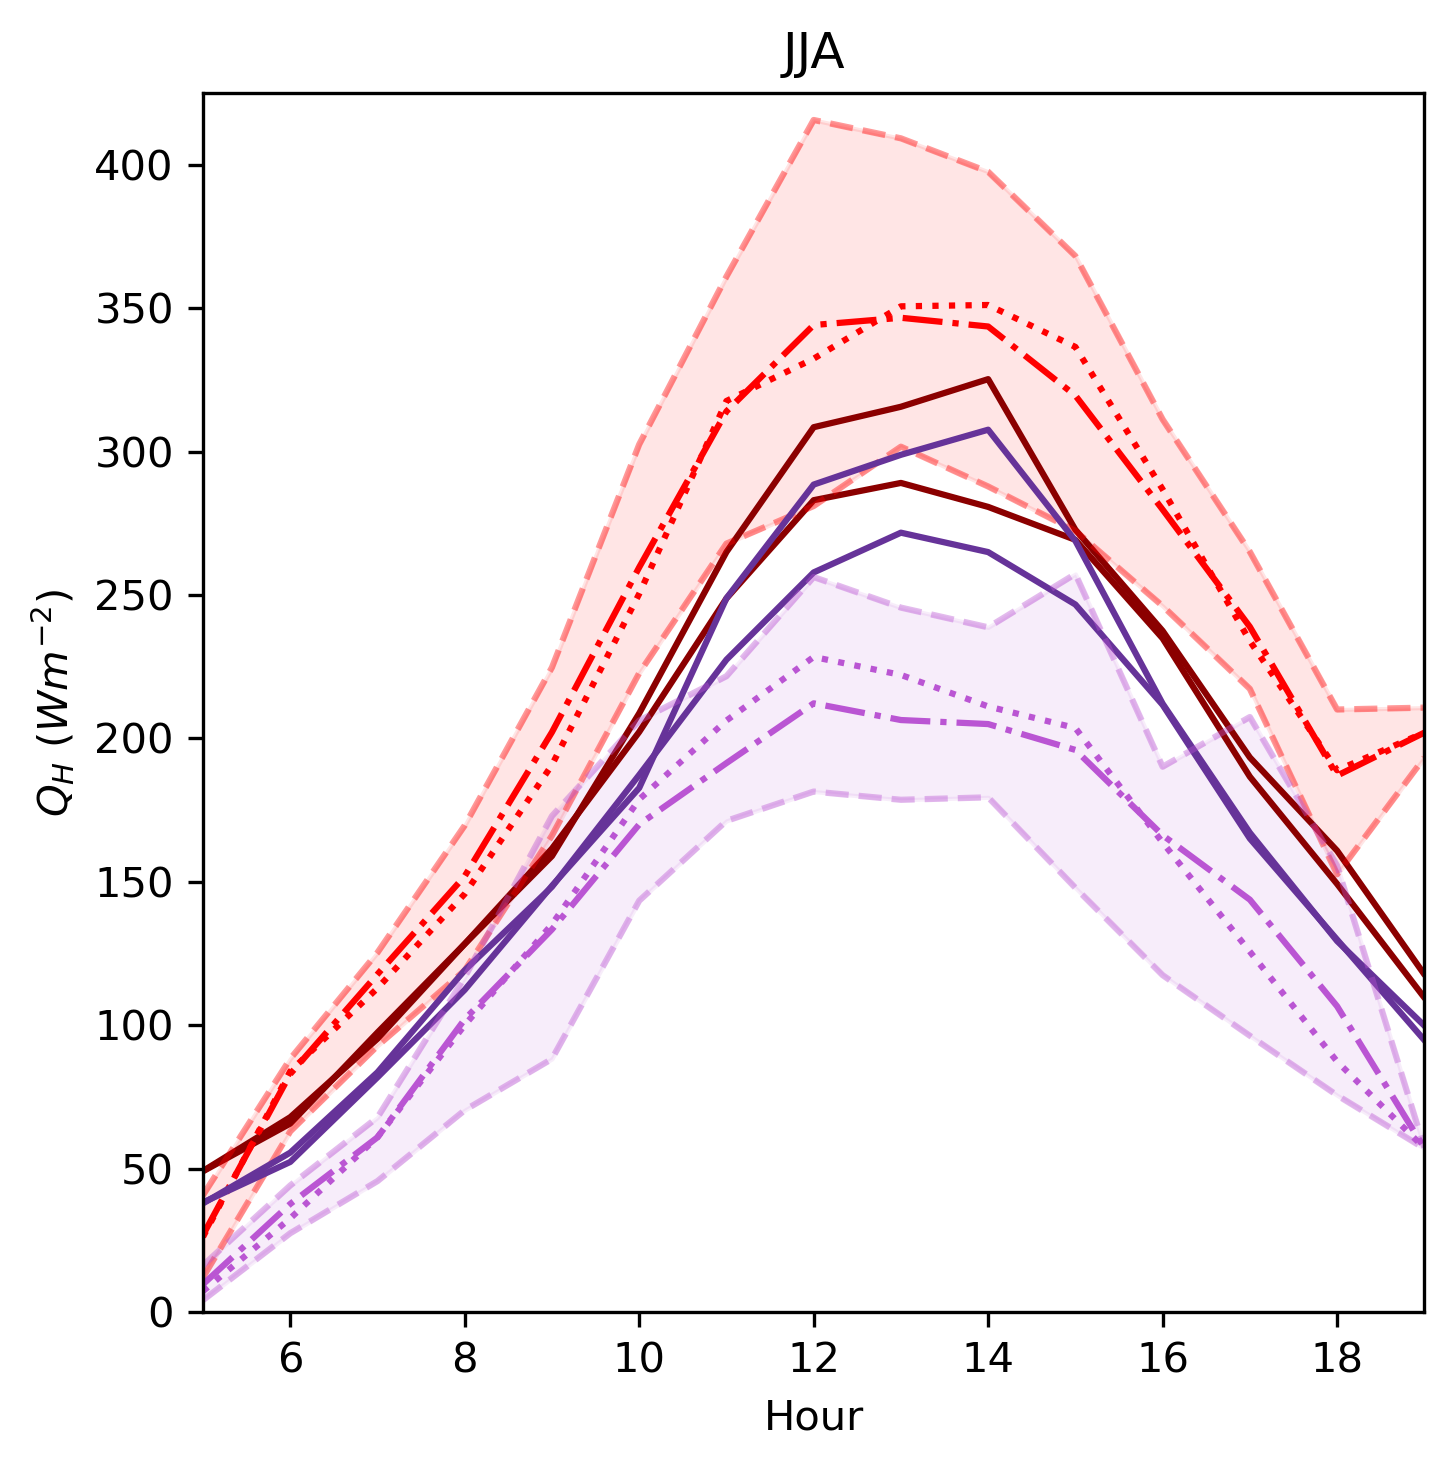
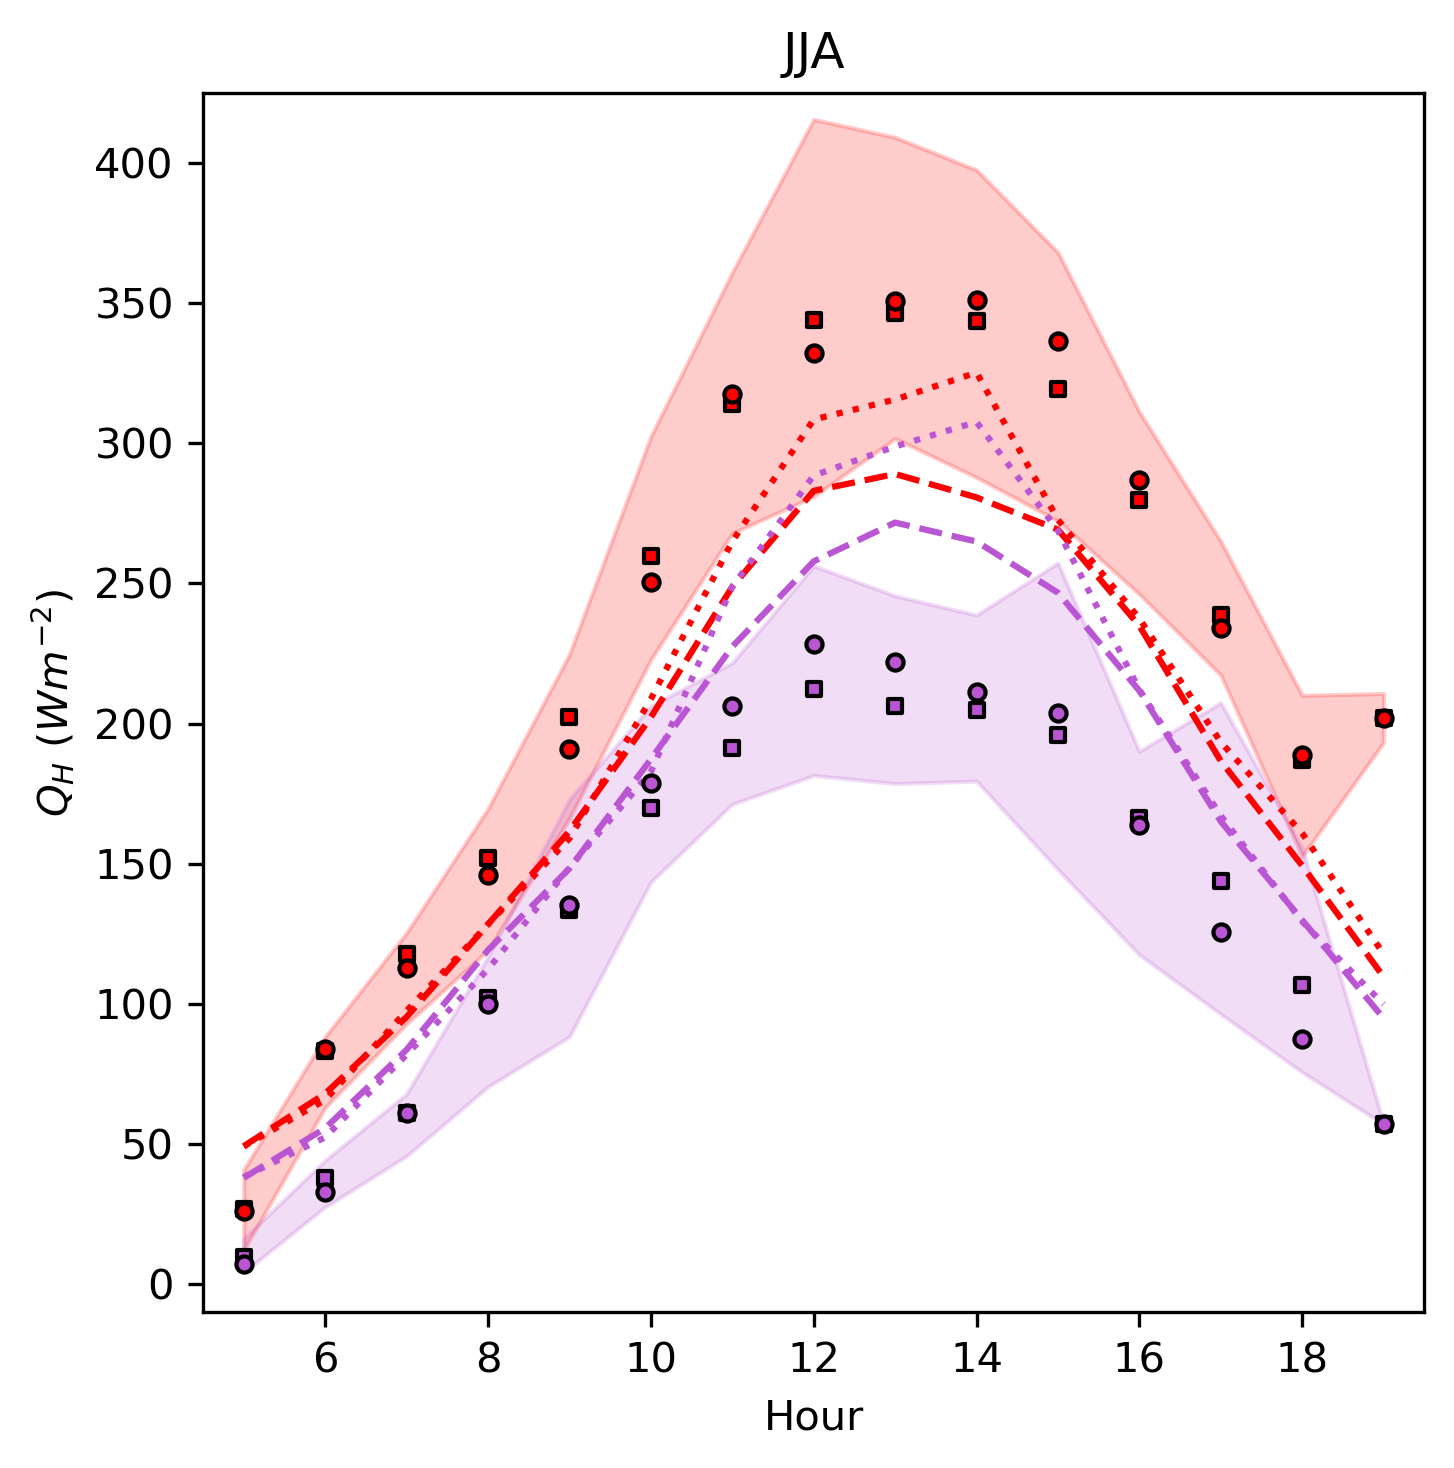
different markers for counts under threshold

diff --git a/scint_plots/scint_seasonality/seasonality_funs.py b/scint_plots/scint_seasonality/seasonality_funs.py
@@ -7,7 +7,7 @@ import matplotlib.patches as mpatches
 from scint_flux import look_up
 
 
-def plot_season_one_panel(season_dict, season_dict_UKV, save_path, variable='QH'):
+def plot_season_one_panel(season_dict, season_dict_UKV, save_path, variable='QH', count_threshold=5):
     """
 
     :return:
@@ -36,29 +36,52 @@ def plot_season_one_panel(season_dict, season_dict_UKV, save_path, variable='QH'
 
             df_season_UKV['hour'] = df_season_UKV.index.hour
 
-            df_season_UKV = df_season_UKV[(df_season_UKV.hour <= max_obs_hour) & (df_season_UKV.hour >= min_obs_hour)].drop(columns=['hour'])
+            df_season_UKV = df_season_UKV[
+                (df_season_UKV.hour <= max_obs_hour) & (df_season_UKV.hour >= min_obs_hour)].drop(columns=['hour'])
 
             ax.set_title(season)
 
             IQR_path_dict_UKV = IQR(df_season_UKV)
             IQR_path_dict = IQR(df_season)
 
-
             for path in IQR_path_dict:
-
                 path_num_str = path.split('_')[-1]
 
                 IQR_dict = IQR_path_dict[path]
                 IQR_dict_UKV = IQR_path_dict_UKV['BL_H_' + path_num_str]
                 pair_id = look_up.scint_path_numbers[int(path.split('_')[-1])]
 
-                ax.plot(IQR_dict_UKV['mean'].index, IQR_dict_UKV['mean'], color=colour_dict[pair_id],linestyle=linestyle_dict['UKV_mean'], zorder=2)
-                ax.plot(IQR_dict_UKV['median'].index, IQR_dict_UKV['median'], color=colour_dict[pair_id],linestyle=linestyle_dict['UKV_median'], zorder=2)
+                ax.plot(IQR_dict_UKV['mean'].index, IQR_dict_UKV['mean'], color=colour_dict[pair_id],
+                        linestyle=linestyle_dict['UKV_mean'], zorder=2)
+                ax.plot(IQR_dict_UKV['median'].index, IQR_dict_UKV['median'], color=colour_dict[pair_id],
+                        linestyle=linestyle_dict['UKV_median'], zorder=2)
 
-                ax.scatter(IQR_dict['mean'].index, IQR_dict['mean'], color=colour_dict[pair_id], marker=linestyle_dict['mean'], s=10, edgecolor='k', zorder=3)
-                ax.scatter(IQR_dict['median'].index, IQR_dict['median'], color=colour_dict[pair_id], marker=linestyle_dict['median'], s=15, edgecolor='k', zorder=3)
+                # points above threshold
+                ax.scatter(IQR_dict['mean'][IQR_dict['count'] >= count_threshold].index,
+                           IQR_dict['mean'][IQR_dict['count'] >= count_threshold],
+                           color=colour_dict[pair_id], marker=linestyle_dict['mean'], s=15, edgecolor='k', zorder=3)
+                ax.scatter(IQR_dict['median'][IQR_dict['count'] >= count_threshold].index,
+                           IQR_dict['median'][IQR_dict['count'] >= count_threshold],
+                           color=colour_dict[pair_id], marker=linestyle_dict['median'], s=20, edgecolor='k', zorder=3)
 
-                ax.fill_between(IQR_dict['25'].columns, IQR_dict['25'].iloc[0], IQR_dict['75'].iloc[0], color=colour_dict[pair_id], alpha=0.2, zorder=1)
+                # transparent markers for points bellow threshold
+                ax.scatter(IQR_dict['mean'][IQR_dict['count'] < count_threshold].index,
+                           IQR_dict['mean'][IQR_dict['count'] < count_threshold],
+                           marker=linestyle_dict['mean'], s=15, edgecolor=colour_dict[pair_id], zorder=4,
+                           facecolors='None')
+
+                ax.scatter(IQR_dict['median'][IQR_dict['count'] < count_threshold].index,
+                           IQR_dict['median'][IQR_dict['count'] < count_threshold],
+                           marker=linestyle_dict['median'], s=20, edgecolor=colour_dict[pair_id], zorder=4,
+                           facecolors='None')
+
+                # for col in IQR_dict['25']:
+                #     if col not in IQR_dict['mean'][IQR_dict['count'] >= count_threshold].index:
+                #         IQR_dict['25'] = IQR_dict['25'].drop(columns=[col])
+                #         IQR_dict['75'] = IQR_dict['75'].drop(columns=[col])
+
+                ax.fill_between(IQR_dict['25'].columns, IQR_dict['25'].iloc[0], IQR_dict['75'].iloc[0],
+                                color=colour_dict[pair_id], alpha=0.2, zorder=1)
 
             ax.get_xaxis().set_major_locator(MaxNLocator(integer=True))
 
@@ -76,11 +99,14 @@ def plot_season_one_panel(season_dict, season_dict_UKV, save_path, variable='QH'
                     # manually create legend
                     handles, labels = plt.gca().get_legend_handles_labels()
 
-                    scatter_mean = plt.scatter([1000], [1000], label='LAS Mean', color='grey', marker=linestyle_dict['mean'], edgecolor='k')
-                    scatter_median = plt.scatter([1000], [1000], label='LAS Median', color='grey', marker=linestyle_dict['median'], edgecolor='k')
+                    scatter_mean = plt.scatter([1000], [1000], label='LAS Mean', color='grey',
+                                               marker=linestyle_dict['mean'], edgecolor='k')
+                    scatter_median = plt.scatter([1000], [1000], label='LAS Median', color='grey',
+                                                 marker=linestyle_dict['median'], edgecolor='k')
 
                     line_mean_ukv = Line2D([0], [0], label='UKV Mean', color='k', linestyle=linestyle_dict['UKV_mean'])
-                    line_median_ukv = Line2D([0], [0], label='UKV Median', color='k', linestyle=linestyle_dict['UKV_median'])
+                    line_median_ukv = Line2D([0], [0], label='UKV Median', color='k',
+                                             linestyle=linestyle_dict['UKV_median'])
 
                     IQR_patch = mpatches.Patch(color='k', label='LAS IQR', alpha=0.2)
 
@@ -88,7 +114,9 @@ def plot_season_one_panel(season_dict, season_dict_UKV, save_path, variable='QH'
                     plt.legend(handles=handles, fontsize=8)
 
             plt.tight_layout()
-            # plt.show()
+            plt.show()
+
+            print('end')
 
             path_name_here = look_up.scint_path_numbers[
                 int(season_dict[list(season_dict.keys())[0]].drop(columns=['QH_12']).columns[0].split('_')[-1])]
